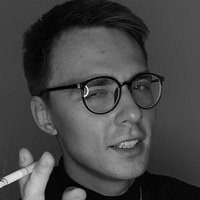
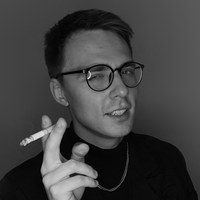
Единый Badge для чипсов и чатов, новые данные чатов, аватарка
- Badge: один компонент (20×20, padding 4, semibold 14, пропорциональные цифры) в чипсах и чатах
- Фон аватарки «Избранное»: #0088FF, 10%
- Имена: Вера Филиппова, Владислав Семёнов, Богдан Ермолаев; новые тексты сообщений
- Аватарка пользователя: кадр шире, лицо меньше

Claude-Session: https://claude.ai/code/session_01PkfaRYH7Rjk9UeiToMFzDy

diff --git a/src/data/chats.ts b/src/data/chats.ts
@@ -43,35 +43,35 @@ export const CHATS: Chat[] = [
     avatar: avatar1,
     category: 'clients',
     online: true,
-    lastMessage: 'Вы: Напомню: сеанс состоится 21 октября в 18:00',
+    lastMessage: 'Вы: Напомню: сеанс состоится 21/04 в 18:00. Кабинет №91.',
     time: '00:00',
     unread: 3,
   },
   {
     id: 'vera',
-    name: 'Вера Соколова',
+    name: 'Вера Филиппова',
     avatar: avatar2,
     category: 'clients',
-    lastMessage: 'Спасибо, до встречи на сеансе!',
+    lastMessage: 'Заполнила дневник эмоций :)',
     time: '14:32',
     unread: 0,
   },
   {
-    id: 'arseniy',
-    name: 'Арсений Крылов',
+    id: 'vladislav',
+    name: 'Владислав Семёнов',
     avatar: avatar3,
     category: 'colleagues',
     online: true,
-    lastMessage: 'Скинул материалы по супервизии, посмотри',
+    lastMessage: 'Блин, я не и не знал, что такой опросник есть.',
     time: '12:05',
     unread: 1,
   },
   {
     id: 'bogdan',
-    name: 'Богдан Лебедев',
+    name: 'Богдан Ермолаев',
     avatar: avatar4,
     category: 'seminars',
-    lastMessage: 'Едем на семинар в субботу?',
+    lastMessage: 'Мы же читаем третий семинар, верно?',
     time: 'Вчера',
     unread: 0,
   },

diff --git a/src/components/Badge/Badge.tsx b/src/components/Badge/Badge.tsx
@@ -1,10 +1,21 @@
 import './Badge.css';
 
-/** Синий кружок со счётчиком непрочитанных */
-export function Badge({ count }: { count: number }) {
-  if (count <= 0) return null;
+type BadgeVariant = 'accent' | 'neutral' | 'inverse';
+
+interface BadgeProps {
+  count: number;
+  /** accent: синий (непрочитанные); neutral: серый (чипс); inverse: белый (активный чипс) */
+  variant?: BadgeVariant;
+  /** Показывать кружок с нулём (для чипсов) */
+  showZero?: boolean;
+  ariaLabel?: string;
+}
+
+/** Кружок со счётчиком. Один компонент и для чатов, и для чипсов, чтобы размеры были одинаковыми */
+export function Badge({ count, variant = 'accent', showZero = false, ariaLabel }: BadgeProps) {
+  if (count <= 0 && !showZero) return null;
   return (
-    <span className="badge" aria-label={`Непрочитанных: ${count}`}>
+    <span className={`badge badge--${variant}`} aria-label={ariaLabel}>
       {count > 99 ? '99+' : count}
     </span>
   );

diff --git a/src/components/Badge/Badge.css b/src/components/Badge/Badge.css
@@ -1,4 +1,5 @@
-/* Кружок 20×20; padding 4 слева и справа, чтобы две цифры давали пилюлю */
+/* Кружок 20×20; padding 4 слева и справа, чтобы две цифры давали пилюлю.
+   Общий для чипсов и непрочитанных сообщений. */
 .badge {
   display: inline-flex;
   flex-shrink: 0;
@@ -8,9 +9,24 @@
   height: var(--size-badge);
   padding: 0 var(--space-1);
   border-radius: var(--radius-pill);
-  background: var(--color-accent);
-  color: var(--color-accent-on);
   font-size: var(--font-size-sm);
   font-weight: var(--font-weight-semibold);
+  /* Пропорциональные цифры: узкая «1» не уезжает влево от центра круга */
+  font-variant-numeric: proportional-nums;
   line-height: 1;
+}
+
+.badge--accent {
+  background: var(--color-accent);
+  color: var(--color-accent-on);
+}
+
+.badge--neutral {
+  background: var(--color-stroke);
+  color: var(--color-text-secondary);
+}
+
+.badge--inverse {
+  background: var(--color-accent-on);
+  color: var(--color-accent);
 }

diff --git a/src/styles/tokens.css b/src/styles/tokens.css
@@ -30,7 +30,7 @@
   /* Производные цвета (оценены по макету, сверить с Figma) */
   --color-border: #E6E8EC;                              /* границы чипсов, табов */
   --color-divider: #E9EBEF;                             /* разделители списка */
-  --color-accent-soft: #DDEBFB;                         /* светлый акцентный фон (Избранное) */
+  --color-accent-soft: rgb(0 136 255 / 10%);            /* #0088FF, 10% (фон «Избранного») */
   --color-accent-on: #FFFFFF;                           /* текст на акцентном фоне */
 
   /* Обводки и кружки неактивного чипса (из Figma) */

diff --git a/src/components/Chip/Chip.css b/src/components/Chip/Chip.css
@@ -28,24 +28,3 @@
   background: var(--color-accent);
   color: var(--color-accent-on);
 }
-
-/* Кружок со счётчиком: 20×20, при двух цифрах растягивается в пилюлю */
-.chip__count {
-  display: inline-flex;
-  align-items: center;
-  justify-content: center;
-  min-width: var(--size-badge);
-  height: var(--size-badge);
-  padding: 0 var(--space-1);
-  border-radius: var(--radius-pill);
-  background: var(--color-stroke);
-  color: var(--color-text-secondary);
-  font-size: var(--font-size-sm);
-  font-weight: var(--font-weight-semibold);
-  line-height: 1;
-}
-
-.chip--active .chip__count {
-  background: var(--color-accent-on);
-  color: var(--color-accent);
-}

diff --git a/src/components/Chip/Chip.tsx b/src/components/Chip/Chip.tsx
@@ -1,4 +1,5 @@
 import type { ReactNode } from 'react';
+import { Badge } from '../Badge/Badge';
 import './Chip.css';
 
 interface ChipProps {
@@ -32,7 +33,9 @@ export function Chip({
       aria-label={ariaLabel}
     >
       {children}
-      {count !== undefined && <span className="chip__count">{count}</span>}
+      {count !== undefined && (
+        <Badge count={count} variant={active ? 'inverse' : 'neutral'} showZero />
+      )}
     </button>
   );
 }

diff --git a/src/components/ChatItem/ChatItem.tsx b/src/components/ChatItem/ChatItem.tsx
@@ -29,7 +29,7 @@ export function ChatItem({ chat, onClick }: ChatItemProps) {
           </span>
           <span className="chat-item__row chat-item__row--bottom">
             <span className="chat-item__preview">{chat.lastMessage}</span>
-            <Badge count={chat.unread} />
+            <Badge count={chat.unread} ariaLabel={`Непрочитанных: ${chat.unread}`} />
           </span>
         </span>
       </button>
